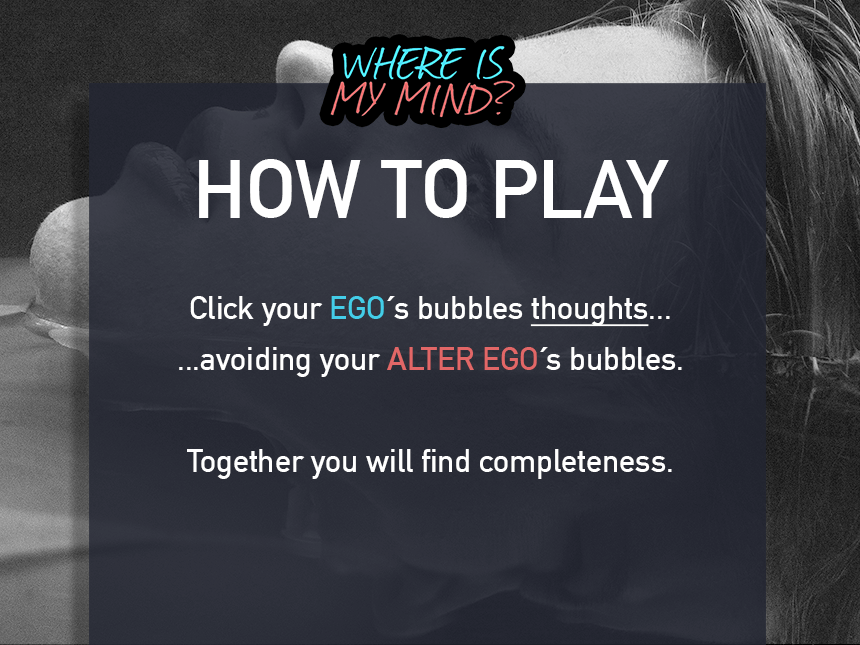
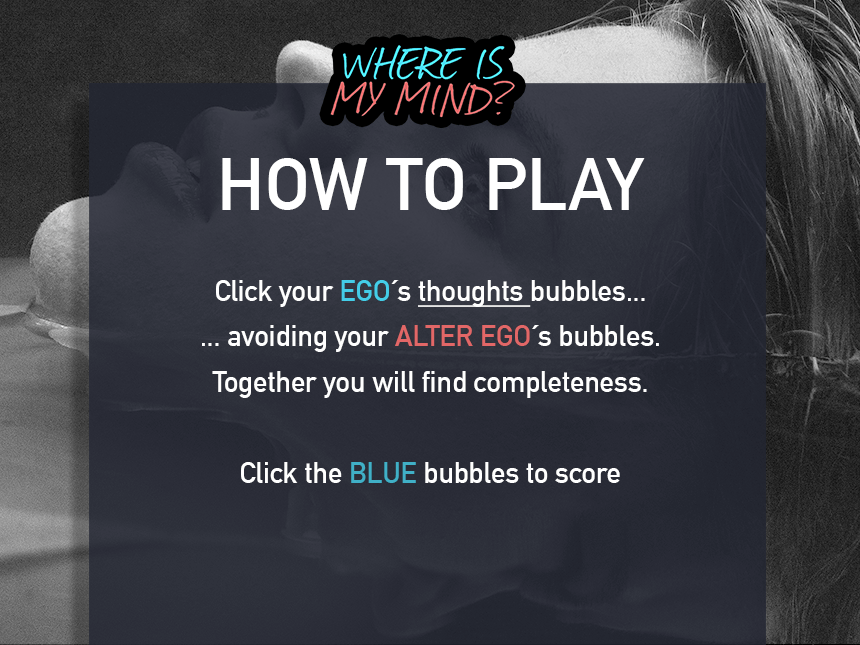
Visual assets upload and game's ending view!

Changed region(s): [[0.2116, 0.4341, 0.786, 0.6202], [0.2116, 0.2481, 0.786, 0.3411], [0.2116, 0.6822, 0.786, 0.7752]]

diff --git a/src/main/java/org/academiadecodigo/mindblowers/client/Controller.java b/src/main/java/org/academiadecodigo/mindblowers/client/Controller.java
@@ -13,7 +13,9 @@ import javafx.fxml.Initializable;
 import javafx.scene.Node;
 import javafx.scene.Parent;
 import javafx.scene.control.Button;
+import javafx.scene.control.Label;
 import javafx.scene.control.ScrollPane;
+import javafx.scene.control.TextField;
 import javafx.scene.input.MouseEvent;
 import javafx.scene.media.AudioClip;
 import javafx.scene.media.Media;
@@ -85,6 +87,14 @@ public class Controller implements Initializable {
     private Pane introPane;
     @FXML
     private Pane instructionsPane;
+    @FXML
+    private Pane gameEnd;
+    @FXML
+    private Label playerScore;
+    @FXML
+    private TextField nicknameField;
+    @FXML
+    private Button okButton;
 
 
     @Override
@@ -114,7 +124,7 @@ public class Controller implements Initializable {
             e.printStackTrace();
         }
 
-        backgroundTimer = new BackgroundTimer(scrollPane);
+        backgroundTimer = new BackgroundTimer(scrollPane, this);
     }
 
 
@@ -323,5 +333,9 @@ public class Controller implements Initializable {
             introAudio.stop();
         }
         gameAudio.play(0.7);
+    }
+
+    public void endGame() {
+
     }
 }

diff --git a/src/main/java/org/academiadecodigo/mindblowers/client/timers/BackgroundTimer.java b/src/main/java/org/academiadecodigo/mindblowers/client/timers/BackgroundTimer.java
@@ -1,6 +1,7 @@
 package org.academiadecodigo.mindblowers.client.timers;
 
 import javafx.scene.control.ScrollPane;
+import org.academiadecodigo.mindblowers.client.Controller;
 import org.academiadecodigo.mindblowers.constants.Constants;
 
 import java.util.Timer;
@@ -13,9 +14,11 @@ import java.util.TimerTask;
 public class BackgroundTimer {
 
     private ScrollPane scrollPane;
+    private Controller controller;
 
-    public BackgroundTimer(ScrollPane scrollPane) {
+    public BackgroundTimer(ScrollPane scrollPane, Controller controller) {
         this.scrollPane = scrollPane;
+        this.controller = controller;
         Timer timer = new Timer();
         timer.schedule(new MoveBackground(), 0, Constants.BACKGROUND_MOVE_MILLISECONDS);
     }
@@ -24,6 +27,9 @@ public class BackgroundTimer {
         @Override
         public void run() {
             scrollPane.setHvalue(scrollPane.getHvalue() + Constants.BACKGROUND_MOVE_PIXELS);
+            if (scrollPane.getHmax() == 8000) {
+                controller.endGame();
+            }
         }
     }
 }
